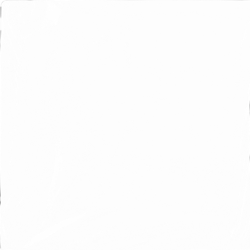
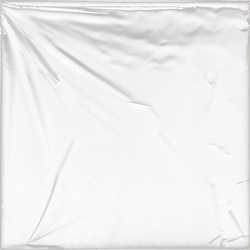
more plastic

diff --git a/src/scene/plasticOverlay.ts b/src/scene/plasticOverlay.ts
@@ -4,7 +4,12 @@
  */
 
 // Available plastic texture variants
-const PLASTIC_TEXTURES = ["plastic1.png", "plastic3.png", "plastic4.png"];
+const PLASTIC_TEXTURES = [
+  "plastic1.png",
+  "plastic2.png",
+  "plastic3.png",
+  "plastic4.png",
+];
 
 // Rotation options for variation (degrees)
 const ROTATION_OPTIONS = [0, 90, 180, 270];
